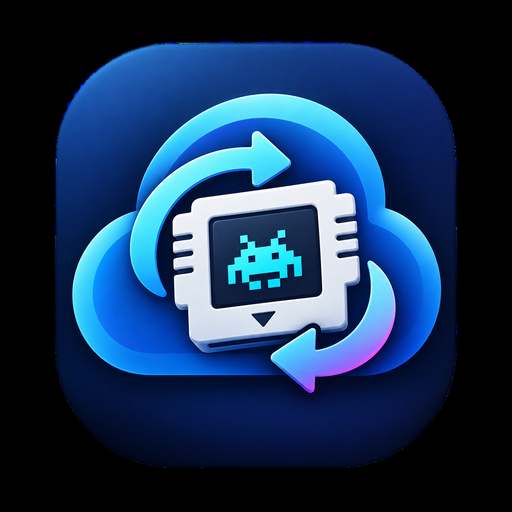
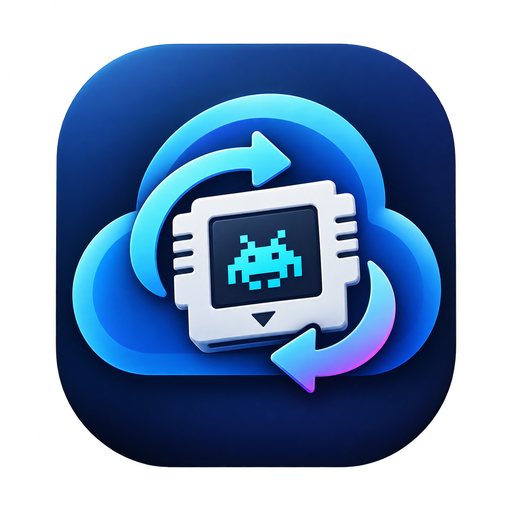
fix(youtube): instant play feedback, 720p with audio, channel fixes
- Show 'Dang tai video...' toast when resolving stream (HOME had no
  loading feedback; extra A presses were silently swallowed)
- startThumbnailDownloads: skip when worker busy instead of joining
  (BackgroundTask::run joins -> froze main thread for tens of seconds)
- setState: keep /tmp/yt_thumbs files when leaving results (GPU cache
  still dropped); list self-heals textures in 1-2 frames, no more
  blank thumbnails after playback
- Channel view (channel: queries) lists 6/page instead of 3
- 720p: default clients with bv*[height<=720][fps<=30][vcodec^=avc]+ba
  (was android-only 360p); C++ keeps audio URL (V|A pipe) for
  --audio-file; android 360p remains as fallback
- youtube_search.sh: keep /tmp/yt_cache across runs, --no-playlist,
  per-branch timing log
- youtube_search.py: normalize all CHANNEL lines to
  name|subs|vcount|avatar with VN display strings; snippet avatar
- apps_icons: 512px re-export keeping RGBA (launcher needs alpha)

diff --git a/scripts/youtube_search.py b/scripts/youtube_search.py
@@ -233,6 +233,35 @@ def _strip_diacritics(s):
         return s
 
 
+def _fmt_subs_vn(count):
+    """Format subscriber int -> display string kieu Innertube VN.
+    Vi du: 1250000 -> '1,25 Tr người đăng ký'. Tra '' neu khong co."""
+    try:
+        n = int(float(count))
+    except (ValueError, TypeError):
+        return ""
+    if n <= 0:
+        return ""
+    if n >= 1000000:
+        t = f"{n / 1000000:.2f}".rstrip("0").rstrip(".").replace(".", ",")
+        return f"{t} Tr người đăng ký"
+    if n >= 1000:
+        t = f"{n / 1000:.1f}".rstrip("0").rstrip(".").replace(".", ",")
+        return f"{t} N người đăng ký"
+    return f"{n} người đăng ký"
+
+
+def _fmt_vcount_vn(count):
+    """Format video count int -> '1.234 video'. Tra '' neu khong co."""
+    try:
+        n = int(float(count))
+    except (ValueError, TypeError):
+        return ""
+    if n <= 0:
+        return ""
+    return f"{n:,}".replace(",", ".") + " video"
+
+
 def _lookup_channel(query):
     """Dùng `search_filter=channel` để tìm channel đầu tiên match query.
 
@@ -428,11 +457,19 @@ def _api_get_channel_info(channel_id):
     stats = item.get("statistics", {})
     if not name:
         return None
+    thumbs = item.get("snippet", {}).get("thumbnails", {})
+    avatar = ""
+    for q in ("high", "medium", "default"):
+        u = thumbs.get(q, {}).get("url", "")
+        if u:
+            avatar = u
+            break
     return {
         "id": item.get("id", channel_id),
         "name": name,
         "subscribers": int(stats.get("subscriberCount", 0) or 0),
         "video_count": int(stats.get("videoCount", 0) or 0),
+        "avatar": avatar,
     }
 
 
@@ -738,10 +775,11 @@ def _api_smart_search(query, max_results=20):
         ch_name = info["name"] if info else "Unknown"
         items = _api_channel_videos(ch_id, max_results)
         if items and info:
-            subs = info.get("subscribers", "")
-            vcount = info.get("video_count", "")
-            desc = info.get("description", "")
-            print(f"CHANNEL|{_safe(ch_name)}|{_safe(ch_id)}|{_safe(subs)}|{_safe(vcount)}|{_safe(desc)}", flush=True)
+            subs = _fmt_subs_vn(info.get("subscribers", 0))
+            vcount = _fmt_vcount_vn(info.get("video_count", 0))
+            avatar = info.get("avatar", "")
+            # Format chuan 5 cot (giong Innertube): CHANNEL|name|subs|vcount|avatar
+            print(f"CHANNEL|{_safe(ch_name)}|{_safe(subs)}|{_safe(vcount)}|{_safe(avatar)}", flush=True)
         for it in items:
             secs = _iso8601_to_seconds(it.get("duration_iso", ""))
             duration = fmt_duration(secs)
@@ -754,10 +792,11 @@ def _api_smart_search(query, max_results=20):
     if ch_info and _is_strong_channel_match(query, ch_info):
         items = _api_channel_videos(ch_info["id"], max_results - 1)
         if items:
-            subs = ch_info.get("subscribers", "")
-            vcount = ch_info.get("video_count", "")
-            desc = ch_info.get("description", "")
-            print(f"CHANNEL|{_safe(ch_info['name'])}|{_safe(ch_info['id'])}|{_safe(subs)}|{_safe(vcount)}|{_safe(desc)}", flush=True)
+            subs = _fmt_subs_vn(ch_info.get("subscribers", 0))
+            vcount = _fmt_vcount_vn(ch_info.get("video_count", 0))
+            avatar = ch_info.get("avatar", "")
+            # Format chuan 5 cot (giong Innertube): CHANNEL|name|subs|vcount|avatar
+            print(f"CHANNEL|{_safe(ch_info['name'])}|{_safe(subs)}|{_safe(vcount)}|{_safe(avatar)}", flush=True)
             for it in items:
                 secs = _iso8601_to_seconds(it.get("duration_iso", ""))
                 duration = fmt_duration(secs)
@@ -837,8 +876,10 @@ def smart_search(query, max_results=20):
 
     if channel_info and _is_strong_channel_match(query, channel_info):
         # Step 2: Output CHANNEL marker (flush để C++ parse được ngay)
-        print(f"CHANNEL|{_safe(channel_info['name'])}|{_safe(channel_info['id'])}|"
-              f"{channel_info['subscribers']}|{channel_info['video_count']}",
+        # Format chuan 5 cot: CHANNEL|name|subs|vcount|avatar
+        print(f"CHANNEL|{_safe(channel_info['name'])}|"
+              f"{_fmt_subs_vn(channel_info['subscribers'])}|"
+              f"{_fmt_vcount_vn(channel_info['video_count'])}|",
               flush=True)
         # Step 3: Output latest videos từ channel
         try:

diff --git a/src/ui/UIManager.cpp b/src/ui/UIManager.cpp
@@ -251,8 +251,11 @@ void UIManager::setState(UIState state) {
   if ((m_currentState == UIState::YOUTUBE_RESULTS ||
        m_currentState == UIState::YOUTUBE_SEARCH) &&
       (state != UIState::YOUTUBE_RESULTS && state != UIState::YOUTUBE_SEARCH)) {
+    // Chi xa GPU cache (VRAM). GIU file /tmp/yt_thumbs/*: render tu
+    // nap lai texture tu file trong 1-2 frame (drawYtStandardThumb) nen
+    // Back tu video ve list/Home khong bi mat thumbnail. Xoa file o day
+    // la ly do list tran truoc day (phai tai lai het tu mang).
     clearThumbnailCache();
-    system("rm -rf /tmp/yt_thumbs/* 2>/dev/null &");
   }
 
   Logger::error("[STATE] SET");
@@ -6623,17 +6626,26 @@ std::string UIManager::resolveYouTubeStreamUrl(const std::string &videoId) {
   }
 
   char buffer[4096];
-  std::string streamUrl;
+  // -g co the tra 1 URL (progressive, co san audio) hoac 2 URL
+  // (DASH video-only + audio). Giua ca 2 bang '|' de phat qua --audio-file.
+  std::string videoStreamUrl, audioStreamUrl;
   while (fgets(buffer, sizeof(buffer), pipe) != nullptr) {
     std::string line(buffer);
     while (!line.empty() && (line.back() == '\n' || line.back() == '\r')) {
       line.pop_back();
     }
     if (line.find("http://") == 0 || line.find("https://") == 0) {
-      streamUrl = line;
-      break;
+      if (videoStreamUrl.empty())
+        videoStreamUrl = line;
+      else if (audioStreamUrl.empty()) {
+        audioStreamUrl = line;
+        break;
+      }
     }
   }
+  std::string streamUrl = videoStreamUrl;
+  if (!audioStreamUrl.empty())
+    streamUrl += "|" + audioStreamUrl;
   pclose(pipe);
 
   if (!streamUrl.empty()) {
@@ -6788,6 +6800,12 @@ void UIManager::startThumbnailDownloads(
     const std::vector<std::string> &videoIds) {
   if (videoIds.empty())
     return;
+  // Worker còn bận lô cũ: BỎ QUA lô mới. BackgroundTask::run() sẽ join()
+  // thread cũ -> block main thread hàng chục giây (8 ảnh x curl tối đa
+  // 4s), UI đơ toàn tập dù kết quả đã hiện. Thumb chỉ là trang trí:
+  // lô sau bù lại khi user chuyển trang/tìm mới, ô thiếu hiện placeholder.
+  if (m_thumbTask.isRunning())
+    return;
   m_thumbTask.run([videoIds](TaskProgress &) {
     mkdir("/tmp/yt_thumbs", 0777);
     DIR *dir = opendir("/tmp/yt_thumbs");
@@ -6875,6 +6893,7 @@ void UIManager::playYouTubeVideo(const std::string &videoId) {
   m_ytVideoReady = false;
   m_ytPendingStreamUrl.clear();
   m_ytPendingVideoId = videoId;
+  showToast("Đang tải video...", UiTheme::ACCENT_CYAN, 4000);
 
   m_resolveTask.run([this, videoId](TaskProgress &) {
     std::string streamUrl = resolveYouTubeStreamUrl(videoId);
@@ -9039,8 +9058,12 @@ void UIManager::applyYouTubeSearchResults(std::vector<std::string> results) {
     m_ytChannelAllVideos.clear();
   }
 
+  // Trang channel (query 'channel:<id>'): list full 6 video/trang ngay tu dau.
+  // Search thuong co matched channel: giu 3 video (3 o HÀNG 3 la video moi
+  // nhat cua kenh, layout card mac dinh).
+  bool isChannelQuery = m_ytLastSearchQuery.rfind("channel:", 0) == 0;
   int end =
-      m_ytMatchedChannel.matched
+      (m_ytMatchedChannel.matched && !isChannelQuery)
           ? std::min<int>(3, static_cast<int>(m_ytAllCachedResults.size()))
           : std::min<int>(6, static_cast<int>(m_ytAllCachedResults.size()));
   m_ytSearchResults.assign(m_ytAllCachedResults.begin(),
